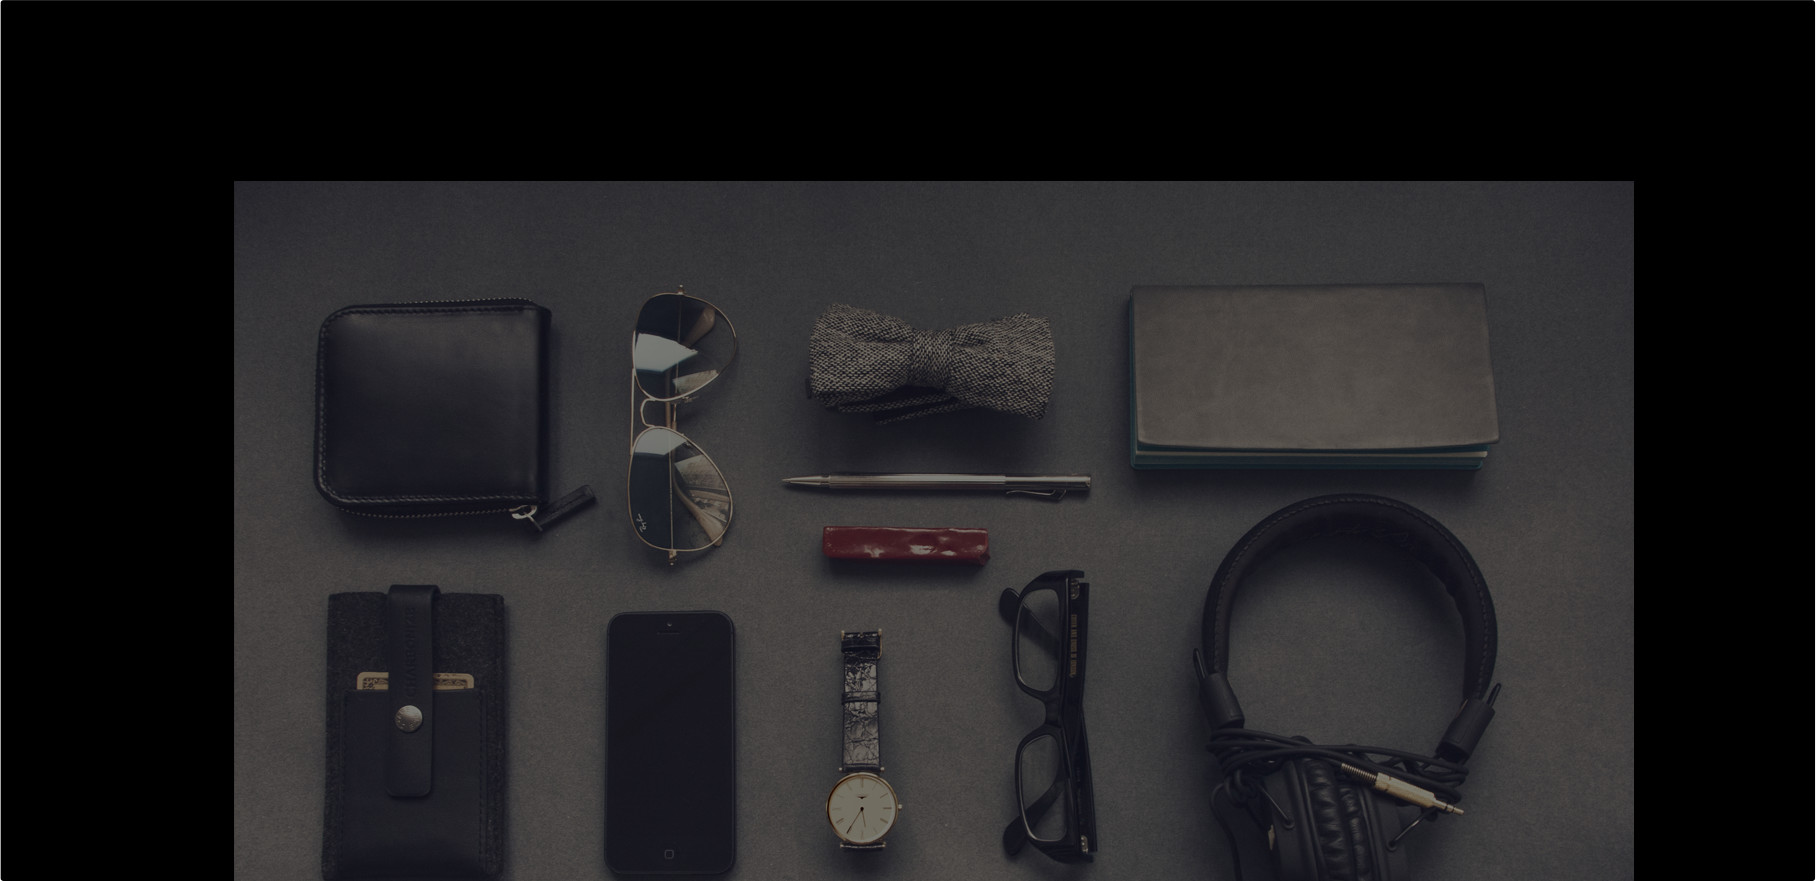
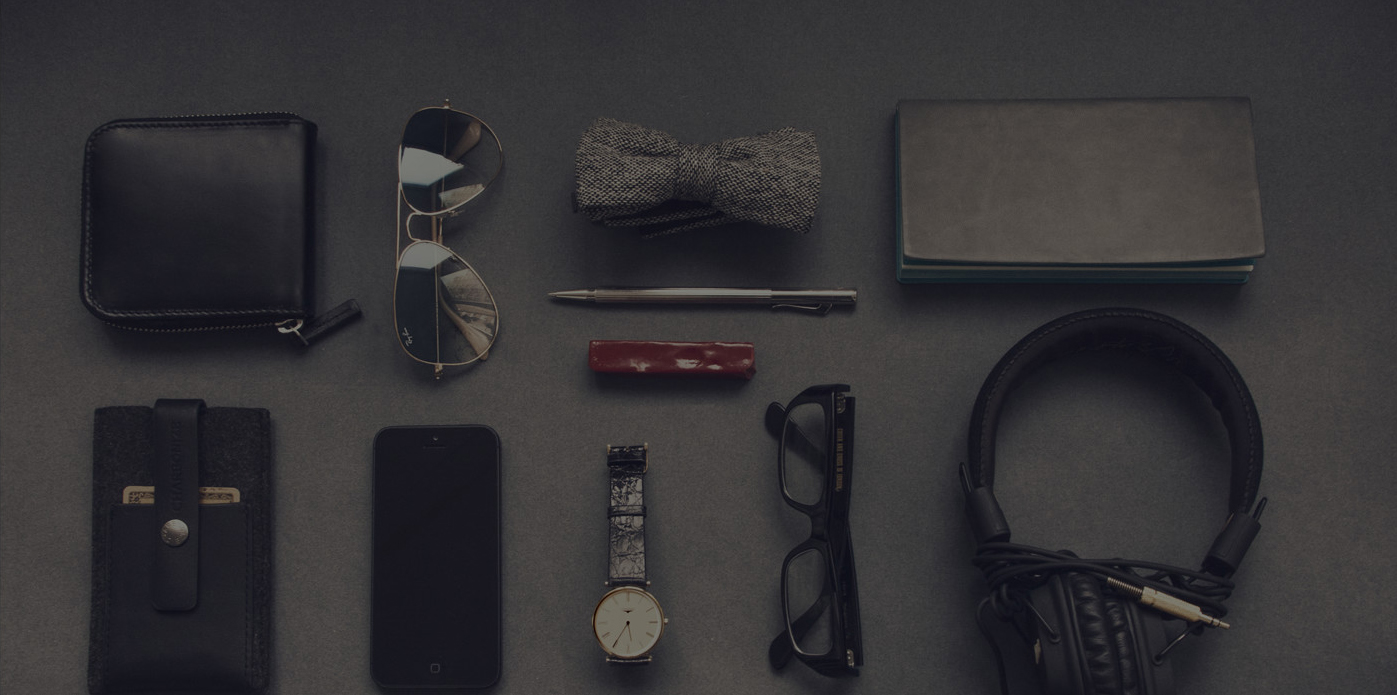
Start

diff --git a/My projects/Project#1/index.html b/My projects/Project#1/index.html
@@ -3,9 +3,26 @@
   <head>
     <meta charset="UTF-8">
     <title>Project 1</title>
+    <link rel="stylesheet" href="css/style.css">
   </head>
   <body>
+    <header>
+      <div class="container">
+        gfgfgf
+      </div>
+    </header>
 
+    <section>
+      <div class="container">
+        fgghfghf
+      </div>
+    </section>
+
+    <section>
+      <div class="container">
+        fhghfghfg
+      </div>
+    </section>
 
   </body>
 </html>

diff --git a/My projects/Project#1/css/style.css b/My projects/Project#1/css/style.css
@@ -1,0 +1,10 @@
+body {
+  font-family: Arial, sans-serif;
+  margin: 0;
+  padding: 0;
+}
+
+header {
+  background: url(../images/first-bg.jpg) no-repeat center top / cover;
+  height: 500px;
+}
